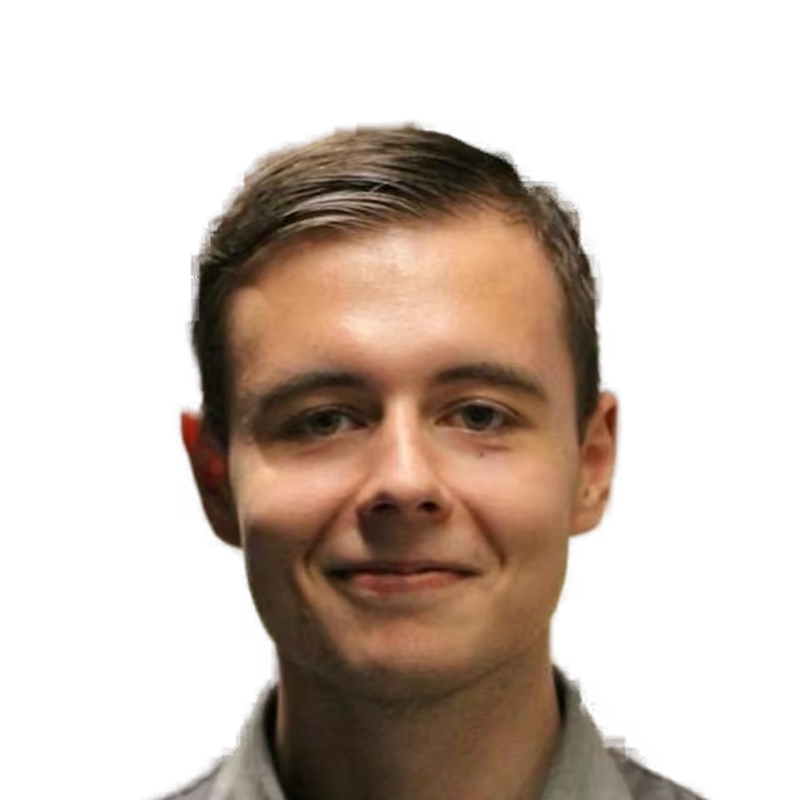
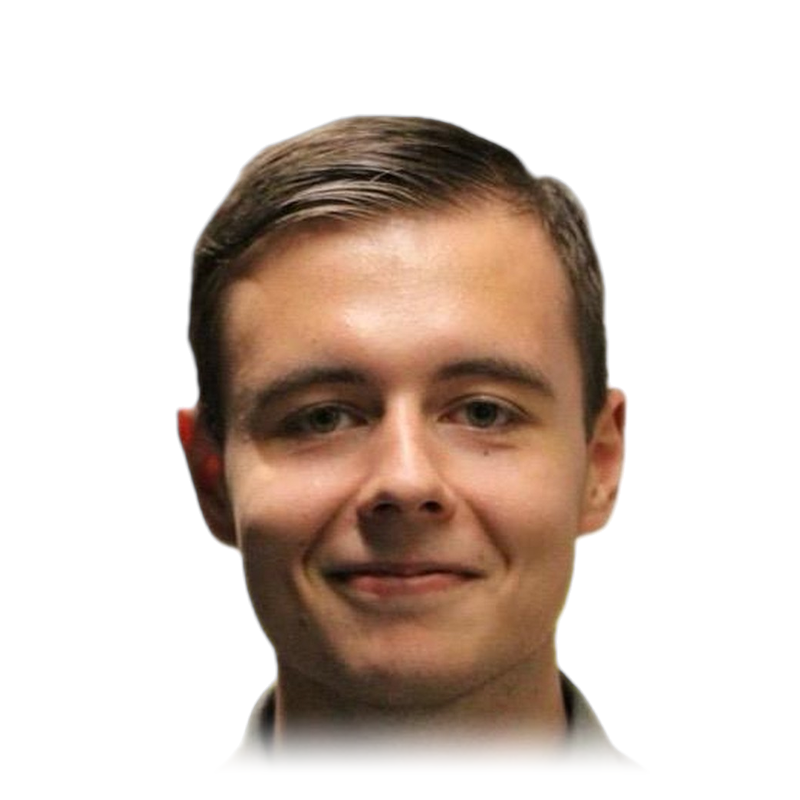
v19.2: Teamfotos nachgebessert, FAQ aus der Sprungnavigation an die Preise
- Luca: Freistellung mit BiRefNet-portrait statt isnet, Rahmung in der Vorlage (Augen 52 %, Kinn ~86 %), Shirt im Bild ausgeblendet, kein CSS-Zoom mehr
- Cederic: abstehende Straehnen oben rechts entfernt
- FAQ-Link aus der Header-Navigation (nur Sprunglinks auf dieser Seite) entfernt; stattdessen 'Noch Fragen zum Preis?' mit drei Fragen und 'Alle haeufigen Fragen' bei den Preisen; Footer-Link bleibt

Claude-Session: https://claude.ai/code/session_01CshQUVkWaP2FhdTobb8NvF

diff --git a/public/index.html b/public/index.html
@@ -31,7 +31,7 @@
 <link rel="preload" href="/fonts/inter-latin-600-normal.woff2" as="font" type="font/woff2" crossorigin>
 <link rel="preload" href="/fonts/inter-latin-800-normal.woff2" as="font" type="font/woff2" crossorigin>
 <!-- v18 (M16): one stylesheet, built by scripts/build-css.mjs from base.css + scenes.css + desktop.css + mobile.css (edit those) -->
-<link rel="stylesheet" href="/assets/site.css?v=62a75a604d">
+<link rel="stylesheet" href="/assets/site.css?v=e25a630a66">
 <script src="/assets/shared.js?v=52cc869699" defer></script>
 <script src="/vendor/gsap.min.js?v=92bb9a9647" defer></script>
 <script src="/vendor/ScrollTrigger.min.js?v=b0b14d67b5" defer></script>
@@ -59,7 +59,6 @@
         <li><a href="#ablauf" data-nav>Ablauf</a></li>
         <li><a href="#preise" data-nav>Preise</a></li>
         <li><a href="#ueber-uns" data-nav>Über uns</a></li>
-        <li><a href="/faq">FAQ</a></li>
         <li class="main-nav-contact"><a href="#kontakt" data-nav>Kontakt</a></li>
       </ul>
     </nav>
@@ -279,6 +278,17 @@
         <div class="price" data-offer><h3 class="price-h">Sonderpreis für drei Websites.</h3><div class="price-row"><p class="price-now">995 €<sup class="price-star">*</sup></p><p class="price-reg"><s>1.990 €<sup class="price-star">*</sup></s><span>regulär ab der vierten Website</span></p></div><p class="price-avail">Zwei der drei Plätze sind noch frei.</p><ul class="facts"><li><strong>Zwei Korrekturrunden inklusive,</strong> ab der dritten 79 €.</li><li><strong>Technische Betreuung 49 € im Monat,</strong> Hosting, Domain, Updates, kleine Änderungen.</li></ul><a class="btn btn-primary btn-lg" href="mailto:info@bartolucci-digital.de?subject=Platz%20anfragen&amp;body=Hallo%20Luca%2C%20hallo%20Cederic%2C%0D%0A%0D%0Aich%20interessiere%20mich%20f%C3%BCr%20eine%20Website%20zum%20Festpreis.%0D%0A%0D%0ABetrieb%3A%20%0D%0ABranche%3A%20%0D%0AStadtteil%3A%20%0D%0AWunschtermin%20f%C3%BCr%20das%2030-Minuten-Gespr%C3%A4ch%3A%20%0D%0A%0D%0AViele%20Gr%C3%BC%C3%9Fe">Platz anfragen<svg class="btn-ic" viewBox="0 0 24 24" aria-hidden="true"><path d="M14 4h6v6M20 4l-9 9M19 14v3a3 3 0 0 1-3 3H7a3 3 0 0 1-3-3V8a3 3 0 0 1 3-3h3"/></svg></a></div><p class="price-note">* Endpreis. Es kommt keine Umsatzsteuer dazu – wir sind Kleinunternehmer nach § 19 UStG.</p>
 <!-- offer:end -->
       </div>
+      <!-- v19.2: the FAQ is its own page, so it is linked where the questions come up (here and in the footer), not in
+           the jump-link navigation that only scrolls this page. Desktop: left column under the copy; narrow: after the card -->
+      <nav class="price-faq" aria-label="Häufige Fragen zum Preis">
+        <p class="price-faq-h">Noch Fragen zum Preis?</p>
+        <ul>
+          <li><a href="/faq#welche-laufenden-kosten-hat-eine-website">Welche laufenden Kosten kommen dazu?</a></li>
+          <li><a href="/faq#wie-bezahle-ich-die-website">Wie bezahle ich die Website?</a></li>
+          <li><a href="/faq#kann-ich-die-betreuung-kuendigen">Kann ich die Betreuung kündigen?</a></li>
+        </ul>
+        <a class="price-faq-all" href="/faq">Alle häufigen Fragen<span aria-hidden="true"> →</span></a>
+      </nav>
     </div>
   </section>
 
@@ -312,7 +322,7 @@
       </div>
       <ul class="team">
         <li class="person">
-          <div class="card-photo-box"><picture><source type="image/avif" srcset="/assets/team/luca.avif?v=e1afbce448"><img class="card-photo" src="/assets/team/luca.webp?v=5d4a46dfe4" alt="Luca-Kay Bartolucci" width="480" height="600" loading="lazy" data-initials="LB"></picture></div>
+          <div class="card-photo-box"><picture><source type="image/avif" srcset="/assets/team/luca.avif?v=81b1043c3b"><img class="card-photo" src="/assets/team/luca.webp?v=2b96be517f" alt="Luca-Kay Bartolucci" width="480" height="600" loading="lazy" data-initials="LB"></picture></div>
           <div class="person-text">
             <h3>Luca-Kay Bartolucci</h3>
             <p class="person-role">Konzept, Texte, dein Ansprechpartner</p>
@@ -320,7 +330,7 @@
           </div>
         </li>
         <li class="person">
-          <div class="card-photo-box"><picture><source type="image/avif" srcset="/assets/team/cederic.avif?v=eb803b41af"><img class="card-photo" src="/assets/team/cederic.webp?v=4438f7eaf4" alt="Cederic Langpaap" width="480" height="600" loading="lazy" data-initials="CL"></picture></div>
+          <div class="card-photo-box"><picture><source type="image/avif" srcset="/assets/team/cederic.avif?v=a7451e8d02"><img class="card-photo" src="/assets/team/cederic.webp?v=b5a906cdf0" alt="Cederic Langpaap" width="480" height="600" loading="lazy" data-initials="CL"></picture></div>
           <div class="person-text">
             <h3>Cederic Langpaap</h3>
             <p class="person-role">Technik, Hosting, Updates, Compliance</p>

diff --git a/public/assets/base.css b/public/assets/base.css
@@ -336,6 +336,21 @@ html[data-theme='dark'] .price-note { color: var(--ink-2); }
 /* v18.1: "opens elsewhere" icon in the mail button; the footnote runs the full width of the column (one line) */
 .btn-ic { width: 18px; height: 18px; flex: none; stroke: currentColor; fill: none; stroke-width: 2; stroke-linecap: round; stroke-linejoin: round; }
 .price-note { max-width: none; }
+/* v19.2: FAQ links next to the price (the FAQ is a separate page, not a jump target of the header nav) */
+.price-faq { margin-top: 32px; padding-top: 20px; border-top: 1px solid var(--line); max-width: 420px; grid-column: 1; grid-row: 2; }
+.price-wrap { row-gap: 0; grid-template-rows: auto 1fr; }
+.price-wrap > .price-col { grid-column: 2; grid-row: 1 / span 2; }
+@media (max-width: 900px) {
+  .price-wrap { row-gap: clamp(32px, 5vw, 80px); grid-template-rows: none; }
+  .price-wrap > .price-col, .price-faq { grid-column: auto; grid-row: auto; }
+  .price-faq { margin-top: 0; }
+}
+.price-faq-h { margin: 0 0 8px; font-weight: 700; color: var(--ink); }
+.price-faq ul { list-style: none; margin: 0; padding: 0; }
+.price-faq li { margin: 0; }
+.price-faq li a { display: block; padding: 7px 0; color: var(--ink-2); text-decoration: underline; text-decoration-color: var(--line); text-underline-offset: 4px; }
+.price-faq li a:hover { color: var(--ink); text-decoration-color: var(--accent); }
+.price-faq-all { display: inline-block; margin-top: 12px; font-weight: 600; color: var(--accent); text-underline-offset: 3px; }
 
 
 /* ---------- about: two person cards, photos load from fixed file names, initials tile as fallback ---------- */
@@ -372,7 +387,8 @@ html[data-theme='dark'] .card-photo-box::after { box-shadow: inset 0 0 0 1px rgb
 /* v19.1: luca.webp is re-cut from the original photo with room below the chin. At zoom 1 his face is ~15 % smaller
    than Cederic's (eyes 52 %, chin 81 %), so a zoom of 1.14 about the eye line: eyes stay at 52 %, chin at ~85 %, i.e.
    above the bottom fade that starts at 88 % (the old 1.09 about 16 % pushed the chin to ~94 %, into the fade). */
-.card-photo[src*='luca.'] { --photo-zoom: 1.14; --photo-origin: 50% 52%; }
+/* v19.2: both masters now carry their framing (assets-src/team, zoom 1, no per-person rule). luca.png: BiRefNet cut-out,
+   eyes at 52 %, chin at ~86 %, above the bottom fade from 88 %; his shirt is faded out inside the file (88-97 %). */
 .card-photo--fallback { transform: none; display: grid; place-items: center; background: var(--accent-soft); color: var(--accent); font-weight: 800; font-size: 40px; letter-spacing: -0.03em; }
 .person h3 { font-size: clamp(21px, 1.3vw, 28px); font-weight: 800; letter-spacing: -0.02em; }
 .person-role { margin-top: 2px; font-weight: 600; color: var(--accent); }

diff --git a/public/assets/site.css b/public/assets/site.css
@@ -338,6 +338,21 @@ html[data-theme='dark'] .price-note { color: var(--ink-2); }
 /* v18.1: "opens elsewhere" icon in the mail button; the footnote runs the full width of the column (one line) */
 .btn-ic { width: 18px; height: 18px; flex: none; stroke: currentColor; fill: none; stroke-width: 2; stroke-linecap: round; stroke-linejoin: round; }
 .price-note { max-width: none; }
+/* v19.2: FAQ links next to the price (the FAQ is a separate page, not a jump target of the header nav) */
+.price-faq { margin-top: 32px; padding-top: 20px; border-top: 1px solid var(--line); max-width: 420px; grid-column: 1; grid-row: 2; }
+.price-wrap { row-gap: 0; grid-template-rows: auto 1fr; }
+.price-wrap > .price-col { grid-column: 2; grid-row: 1 / span 2; }
+@media (max-width: 900px) {
+  .price-wrap { row-gap: clamp(32px, 5vw, 80px); grid-template-rows: none; }
+  .price-wrap > .price-col, .price-faq { grid-column: auto; grid-row: auto; }
+  .price-faq { margin-top: 0; }
+}
+.price-faq-h { margin: 0 0 8px; font-weight: 700; color: var(--ink); }
+.price-faq ul { list-style: none; margin: 0; padding: 0; }
+.price-faq li { margin: 0; }
+.price-faq li a { display: block; padding: 7px 0; color: var(--ink-2); text-decoration: underline; text-decoration-color: var(--line); text-underline-offset: 4px; }
+.price-faq li a:hover { color: var(--ink); text-decoration-color: var(--accent); }
+.price-faq-all { display: inline-block; margin-top: 12px; font-weight: 600; color: var(--accent); text-underline-offset: 3px; }
 
 
 /* ---------- about: two person cards, photos load from fixed file names, initials tile as fallback ---------- */
@@ -374,7 +389,8 @@ html[data-theme='dark'] .card-photo-box::after { box-shadow: inset 0 0 0 1px rgb
 /* v19.1: luca.webp is re-cut from the original photo with room below the chin. At zoom 1 his face is ~15 % smaller
    than Cederic's (eyes 52 %, chin 81 %), so a zoom of 1.14 about the eye line: eyes stay at 52 %, chin at ~85 %, i.e.
    above the bottom fade that starts at 88 % (the old 1.09 about 16 % pushed the chin to ~94 %, into the fade). */
-.card-photo[src*='luca.'] { --photo-zoom: 1.14; --photo-origin: 50% 52%; }
+/* v19.2: both masters now carry their framing (assets-src/team, zoom 1, no per-person rule). luca.png: BiRefNet cut-out,
+   eyes at 52 %, chin at ~86 %, above the bottom fade from 88 %; his shirt is faded out inside the file (88-97 %). */
 .card-photo--fallback { transform: none; display: grid; place-items: center; background: var(--accent-soft); color: var(--accent); font-weight: 800; font-size: 40px; letter-spacing: -0.03em; }
 .person h3 { font-size: clamp(21px, 1.3vw, 28px); font-weight: 800; letter-spacing: -0.02em; }
 .person-role { margin-top: 2px; font-weight: 600; color: var(--accent); }

diff --git a/public/faq.html b/public/faq.html
@@ -18,7 +18,7 @@
 <link rel="icon" href="/favicon-32.png" type="image/png" sizes="32x32">
 <link rel="apple-touch-icon" href="/apple-touch-icon.png">
 <link rel="preload" href="/fonts/inter-latin-600-normal.woff2" as="font" type="font/woff2" crossorigin>
-<link rel="stylesheet" href="/assets/base.css?v=93aa3f0439">
+<link rel="stylesheet" href="/assets/base.css?v=2d1f04095a">
 <script src="/assets/legal.js?v=fd183f8fee"></script>
 <script src="/assets/shared.js?v=52cc869699" defer></script>
 <!-- faq-jsonld:start (generated by scripts/build-faq.mjs from data/faq.json) -->

diff --git a/public/404.html b/public/404.html
@@ -9,7 +9,7 @@
 <link rel="icon" href="/favicon-32.png" type="image/png" sizes="32x32">
 <link rel="apple-touch-icon" href="/apple-touch-icon.png">
 <link rel="preload" href="/fonts/inter-latin-600-normal.woff2" as="font" type="font/woff2" crossorigin>
-<link rel="stylesheet" href="/assets/base.css?v=93aa3f0439">
+<link rel="stylesheet" href="/assets/base.css?v=2d1f04095a">
 <style>.nf-row{display:flex;flex-wrap:wrap;gap:12px;margin-top:28px}</style>
 <script src="/assets/legal.js?v=fd183f8fee"></script>
 <script src="/assets/shared.js?v=52cc869699" defer></script>

diff --git a/public/datenschutz.html b/public/datenschutz.html
@@ -10,7 +10,7 @@
 <link rel="icon" href="/favicon-32.png" type="image/png" sizes="32x32">
 <link rel="apple-touch-icon" href="/apple-touch-icon.png">
 <link rel="preload" href="/fonts/inter-latin-600-normal.woff2" as="font" type="font/woff2" crossorigin>
-<link rel="stylesheet" href="/assets/base.css?v=93aa3f0439">
+<link rel="stylesheet" href="/assets/base.css?v=2d1f04095a">
 <script src="/assets/legal.js?v=fd183f8fee"></script>
 <script src="/assets/shared.js?v=52cc869699" defer></script>
 </head>

diff --git a/public/impressum.html b/public/impressum.html
@@ -10,7 +10,7 @@
 <link rel="icon" href="/favicon-32.png" type="image/png" sizes="32x32">
 <link rel="apple-touch-icon" href="/apple-touch-icon.png">
 <link rel="preload" href="/fonts/inter-latin-600-normal.woff2" as="font" type="font/woff2" crossorigin>
-<link rel="stylesheet" href="/assets/base.css?v=93aa3f0439">
+<link rel="stylesheet" href="/assets/base.css?v=2d1f04095a">
 <script src="/assets/legal.js?v=fd183f8fee"></script>
 <script src="/assets/shared.js?v=52cc869699" defer></script>
 </head>
